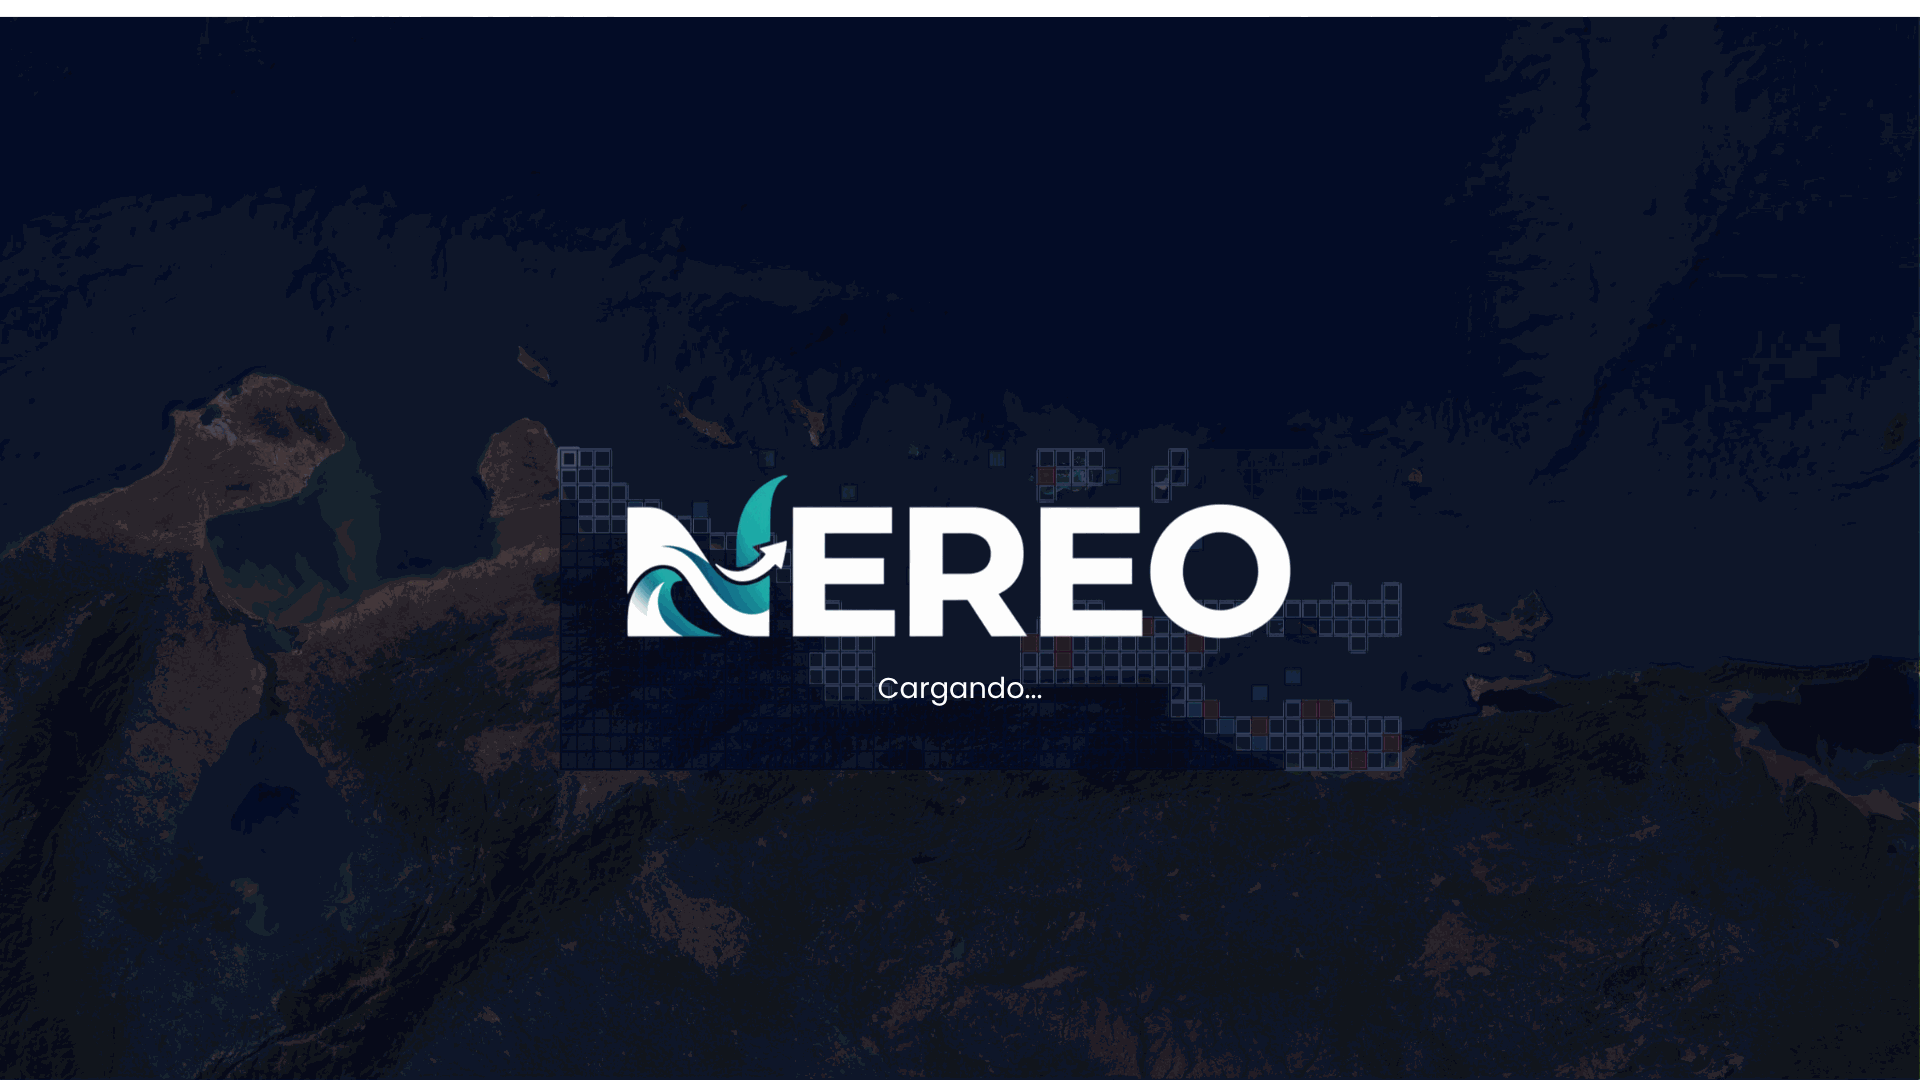
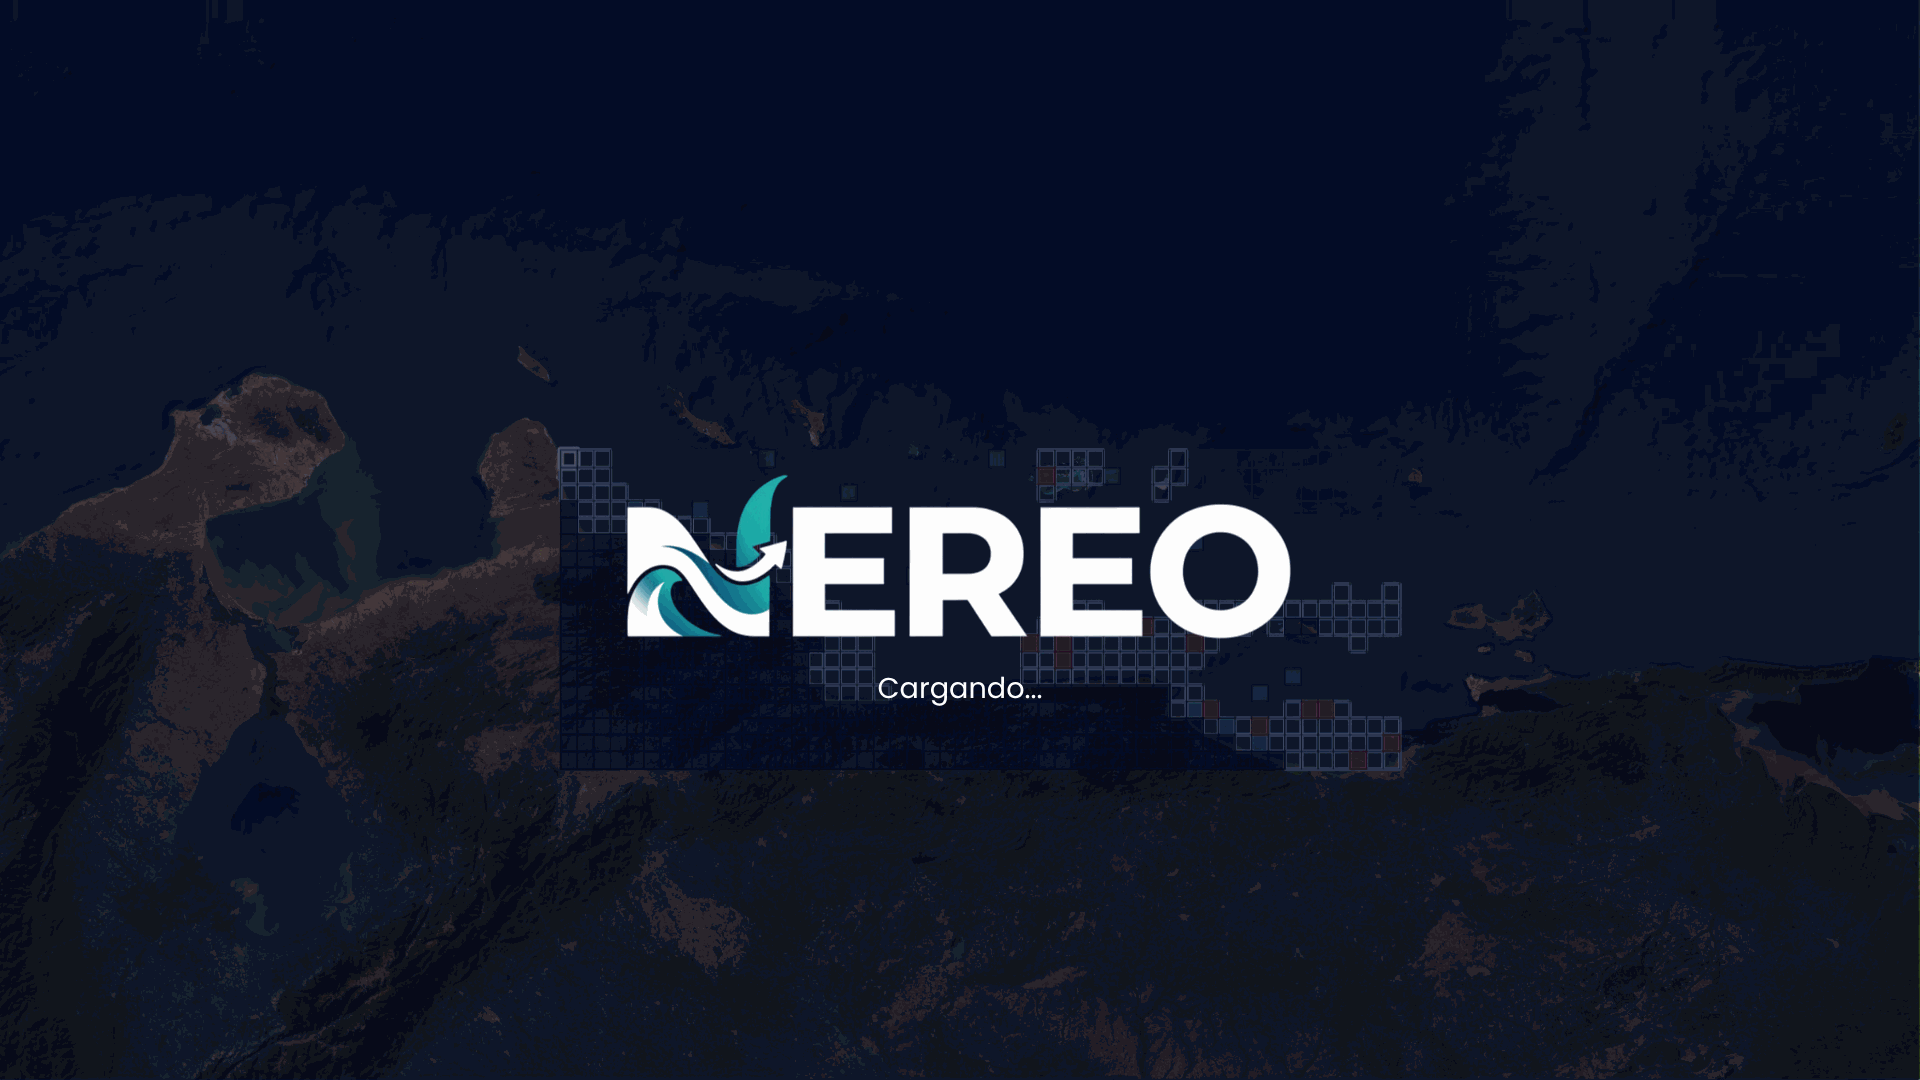
Resolviendo bug pantalla de carga 3

Changed region(s): [[0.0, 0.0, 1.0, 0.0306]]

diff --git a/src/ui/app.py b/src/ui/app.py
@@ -122,7 +122,7 @@ class NereoApp:
                 width: 100%;
                 height: 100%;
                 overflow: hidden;
-                background: #001f3f url("{loading_background_data_url}") center center / cover no-repeat;
+                background: rgb(4, 13, 38) url("{loading_background_data_url}") center center / cover no-repeat;
             }}
 
             #react-entry-point,
@@ -135,7 +135,7 @@ class NereoApp:
             #react-entry-point ._dash-loading {{
                 position: fixed;
                 inset: 0;
-                background: #001f3f url("{loading_background_data_url}") center center / cover no-repeat;
+                background: rgb(4, 13, 38) url("{loading_background_data_url}") center center / cover no-repeat;
                 color: transparent !important;
                 font-size: 0 !important;
                 line-height: 0 !important;